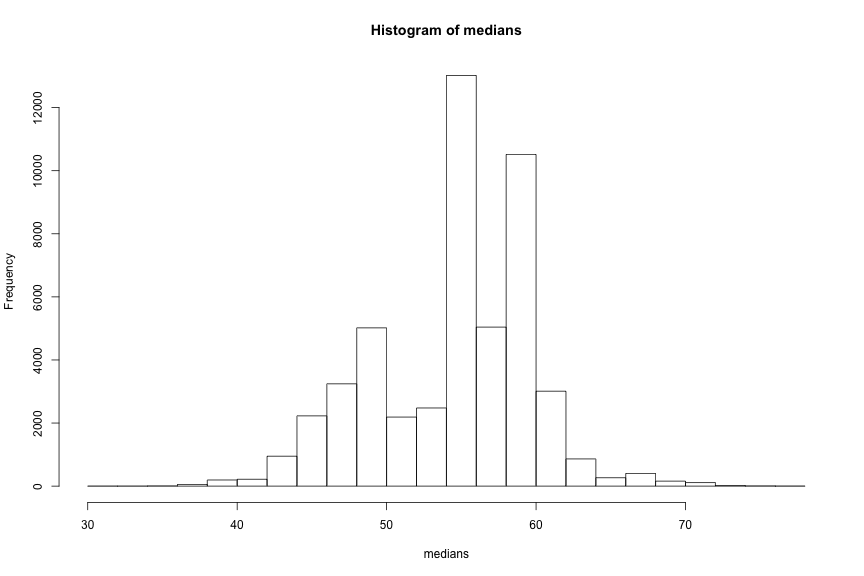
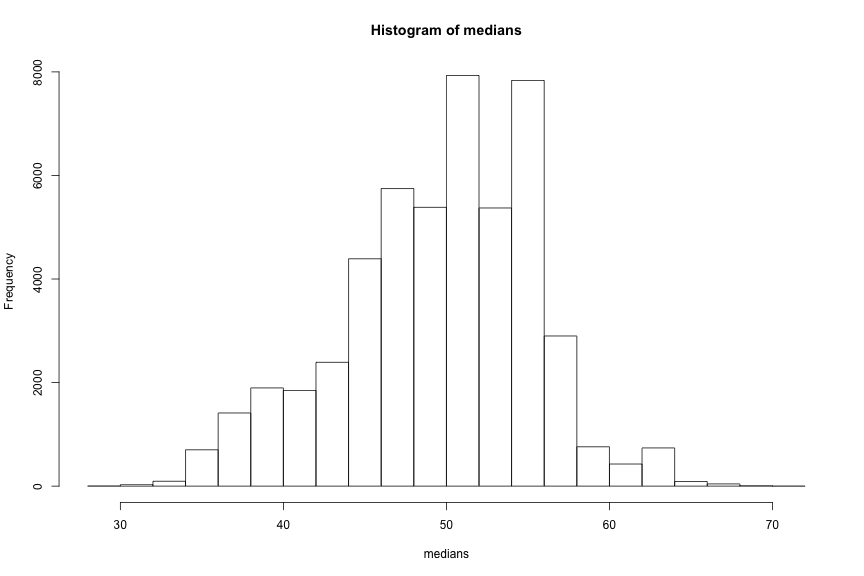
update images

diff --git a/rrug_pres.md b/rrug_pres.md
@@ -28,7 +28,7 @@ Outline
 - Forks
 - PSOCK
 - Clusters
-
+- Lessons
 
 Simplest Example
 ========================================================
@@ -40,7 +40,7 @@ median(exampleData)
 ```
 
 ```
-[1] 55.09117
+[1] 50.11368
 ```
 
 Is the median accurate?
@@ -58,7 +58,7 @@ system.time(
 
 ```
    user  system elapsed 
-  1.913   0.039   1.981 
+  1.879   0.033   1.940 
 ```
 
 Resulting Distribution
@@ -84,7 +84,7 @@ system.time(
 
 ```
    user  system elapsed 
-  2.118   0.151   0.905 
+  2.122   0.152   0.867 
 ```
 
 Same Distribution!
@@ -94,7 +94,7 @@ Same Distribution!
 
 What Happened?
 ==================================================
-- \code{mclapply} creates multiple processes for R and then returns the results
+- `mclapply` creates multiple processes for R and then returns the results
 - Access to all the objects the parent process has access to, including global variables.
 
 Fork Clusters
@@ -112,7 +112,7 @@ system.time(
 
 ```
    user  system elapsed 
-  0.021   0.004   0.870 
+  0.019   0.004   0.854 
 ```
 
 ```r
@@ -126,7 +126,7 @@ Fork Clusters in a Nutshell
 * Can't use `mclapply` within a cluster!
 * Zombie processes...
 
-![image](fork-03.jpg)
+![image](forkCluster.jpeg)
 
 
 The (P)Sock Cluster
@@ -144,26 +144,48 @@ Split Strategy 1 - Create Cluster Across All your Cores
 * Maximum of 128 "nodes", i.e. 128 cores in a single cluster with PSOCK!
 
 
-Split Strategy 2 - The Mini-Me Cluster
+Split Strategy 2 - The Parent-Child Split (Map-Reduce)
 ==================================================
 * Divide the work into reasonable chunks and assign each chunk a key
-* Create a cluster with 1 node on each server.
+* Create a cluster with 1 node on each server. These are your parent processes.
 * On each parent process spawned by this cluster, create **n** child processes,
 where **n** is the number of cores on the box (`detectCores()`).
 * Copy the original data between each box with a key pairing
-* ClusterApplyLB over the keys - each box runs childs processes controlled by a single master process
+* Write function which uses the child cluster for processing
+* Apply function over the keys via the parent cluster - each box runs childs processes controlled by a single master process
 
 
-Why use the second split strategy?
+Why not just make one cluster?
 ==================================================
 
 - **128 node limit only applies to a single cluster object!**
 - As long as you have less than 128 servers, you *should* be good.
 
-![image](minime.jpg)
+![image](splitting_processes.gif)
 
 Extended Clear Capital Example
 ==================================================
 
 
+Caveats
+==================================================
+* Parallel is not always the answer.
+* Parallelism can be difficult to debug.
+
+![img](debugging.gif)
+
+
+When is serial better?
+==================================================
+
+
+Conclusion
+==================================================
+
+* Parallel is great for map-reduce sorts of problems.
+* Clusters are great for managing servers, but can be finicky.
+* Well written serial code is often more performant than poorly written
+parallel code
+
+**Slow serial code is slow parallel code.**
 
